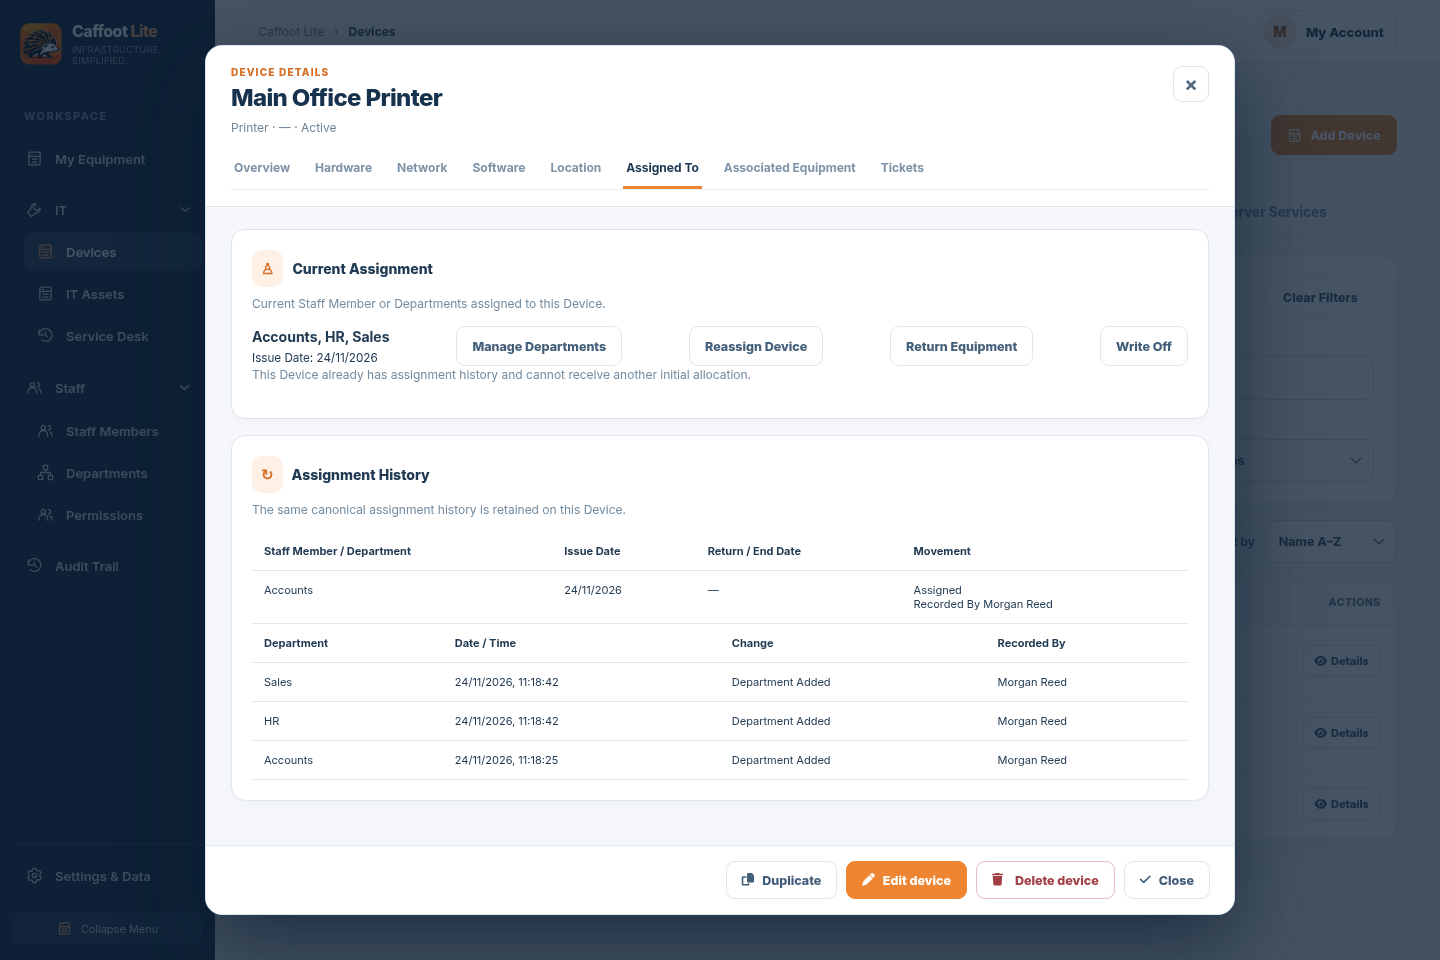
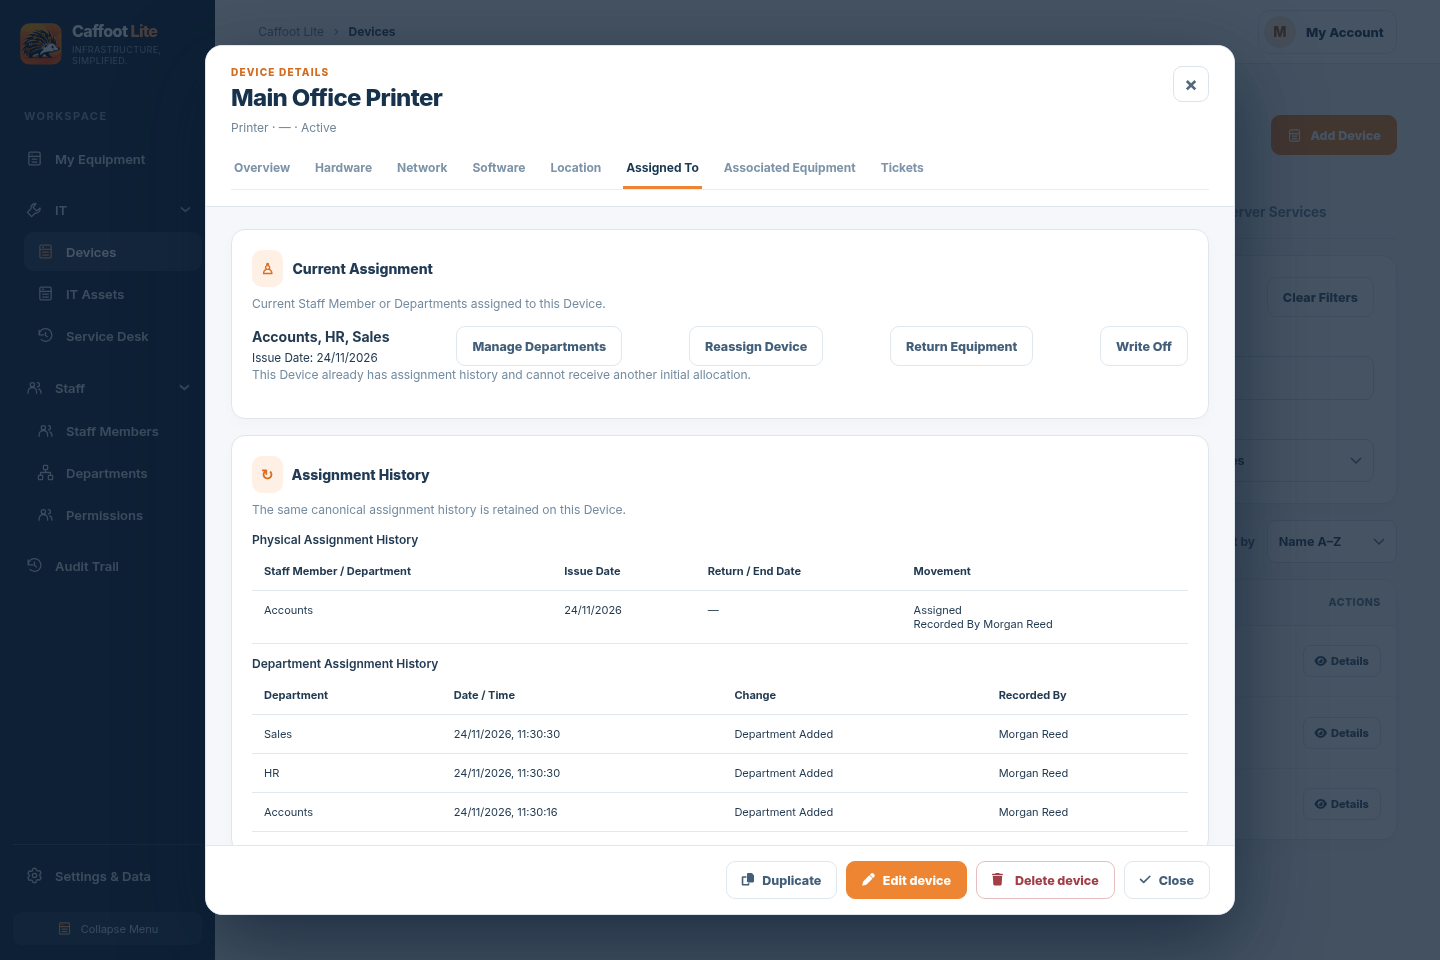
Refresh Current Assignment screenshots and provenance

diff --git a/docs/development-handovers/evidence/stage-6-4/README.md b/docs/development-handovers/evidence/stage-6-4/README.md
@@ -2,7 +2,7 @@
 
 24 November 2026 · [Draft v2.2 review](https://github.com/Caffoot/Caffoot-Lite/pull/447) · [Owner-approved behaviour](https://github.com/Caffoot/Caffoot-Lite/issues/431#issuecomment-7128685595) · [Approved schema and stock recipient decision](https://github.com/Caffoot/Caffoot-Lite/issues/431#issuecomment-7129437209)
 
-The review starts from `957969ba1b44465472765e47f91117ca7c87d177` on `milestone-1` (schema 28). The application source for the local schema 29 Docker rehearsal and these Chromium captures is [`57ca30e15f2d61d2bb4689c6ca1a3600973df3c7`](https://github.com/Caffoot/Caffoot-Lite/commit/57ca30e15f2d61d2bb4689c6ca1a3600973df3c7). Subsequent commits package tests, screenshots and draft documentation.
+The review starts from `957969ba1b44465472765e47f91117ca7c87d177` on `milestone-1` (schema 28). The application source for the local schema 29 Docker rehearsal and the original Chromium capture batch is [`57ca30e15f2d61d2bb4689c6ca1a3600973df3c7`](https://github.com/Caffoot/Caffoot-Lite/commit/57ca30e15f2d61d2bb4689c6ca1a3600973df3c7). The four refreshed Current Assignment captures use [`7cfe63a344ab9088194e899f88e2d837342e585e`](https://github.com/Caffoot/Caffoot-Lite/commit/7cfe63a344ab9088194e899f88e2d837342e585e). The mobile captures scroll to the existing Assignment History card so both subheadings are visible.
 
 ## Application Screenshots
 
@@ -36,6 +36,8 @@ CAFFOOT_CHROMIUM_PATH=/path/to/chromium \
 CAFFOOT_STAGE64_SCREENSHOTS=/path/to/evidence \
 node tests/shared-devices-interface.cjs
 ```
+
+The focused follow-up Chromium check verified both history headings, table columns and record order. The four affected captures were refreshed. All 36 focused backend tests passed, including the existing exact role migration assertion. Schema 29 skips empty inserts that would otherwise initialise zero-valued SQLite sequence entries, while preserving the original high-water marks. [Owner visual correction](https://github.com/Caffoot/Caffoot-Lite/pull/447#issuecomment-7130128114)
 
 ## Remaining Acceptance
 
